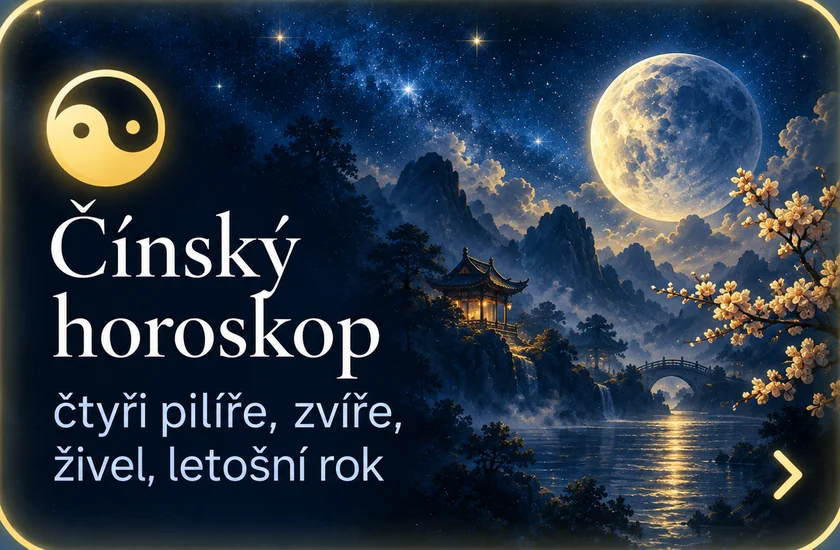
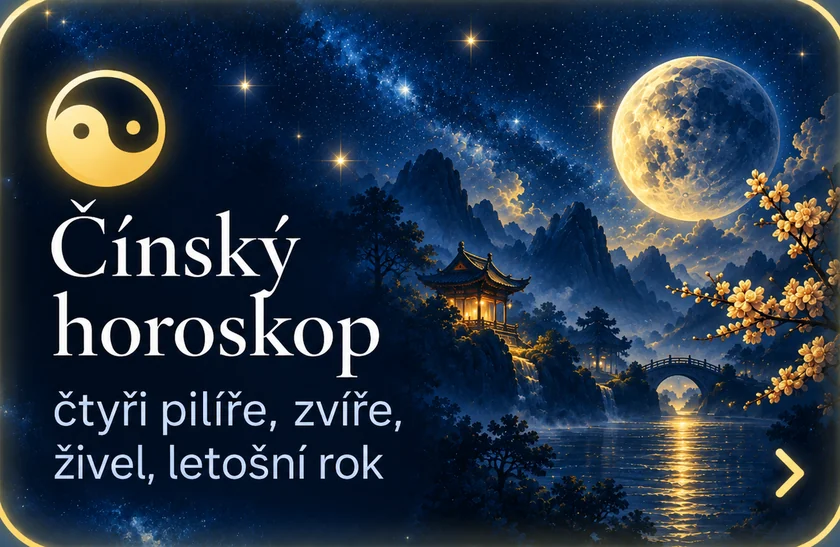
Karty Maysky a Cinsky horoskop v plnem pomeru jako ostatni + SW v368

diff --git a/sw.js b/sw.js
@@ -1,6 +1,6 @@
 /* Kairos – service worker. Při každé změně index.html zvedni číslo verze. */
-const CACHE = 'kairos-v367';
-const SHELL = ['./', './index.html', './styles.css?v=367', './kairos-core.js?v=367', './data.js?v=367', './app.js?v=367', './astronomy.browser.min.js', './manifest.webmanifest', './logo.png', './logo-emblem.webp?v=1', './cyklus-dne.webp?v=1', './cat-vse.webp?v=2', './cat-portal.webp?v=2', './cat-osobni.webp?v=2', './cat-priroda.webp?v=2', './cat-zatmeni.webp?v=2', './cat-luna.webp?v=2', './cat-planety.webp?v=2', './cat-hvezdy.webp?v=2', './cat-roje.webp?v=2', './cat-slunce.webp?v=2', './cat-komety.webp?v=2', './tile-mapa.webp?v=9', './tile-prochazis.webp?v=9', './tile-vztahy.webp?v=9', './tile-horoskop.webp?v=9', './tile-cisla.webp?v=9', './tile-cakra.webp?v=9', './tile-navraty.webp?v=9', './tile-hvezdy.webp?v=9', './tile-maya.webp?v=9', './tile-cina.webp?v=9', './logo-stars.webp?v=1', './moon-tex.png?v=1', './icon-192.png', './icon-512.png', './icon-maskable-512.png', './sky-day.webp?v=7', './sky-night.webp?v=4', './sky-night-hd2.webp?v=1', './sky-day-hd2.webp?v=1'];
+const CACHE = 'kairos-v368';
+const SHELL = ['./', './index.html', './styles.css?v=368', './kairos-core.js?v=368', './data.js?v=368', './app.js?v=368', './astronomy.browser.min.js', './manifest.webmanifest', './logo.png', './logo-emblem.webp?v=1', './cyklus-dne.webp?v=1', './cat-vse.webp?v=2', './cat-portal.webp?v=2', './cat-osobni.webp?v=2', './cat-priroda.webp?v=2', './cat-zatmeni.webp?v=2', './cat-luna.webp?v=2', './cat-planety.webp?v=2', './cat-hvezdy.webp?v=2', './cat-roje.webp?v=2', './cat-slunce.webp?v=2', './cat-komety.webp?v=2', './tile-mapa.webp?v=10', './tile-prochazis.webp?v=10', './tile-vztahy.webp?v=10', './tile-horoskop.webp?v=10', './tile-cisla.webp?v=10', './tile-cakra.webp?v=10', './tile-navraty.webp?v=10', './tile-hvezdy.webp?v=10', './tile-maya.webp?v=10', './tile-cina.webp?v=10', './logo-stars.webp?v=1', './moon-tex.png?v=1', './icon-192.png', './icon-512.png', './icon-maskable-512.png', './sky-day.webp?v=7', './sky-night.webp?v=4', './sky-night-hd2.webp?v=1', './sky-day-hd2.webp?v=1'];
 
 self.addEventListener('install', (e) => {
   e.waitUntil(caches.open(CACHE).then((c) => c.addAll(SHELL.map((u) => new Request(u, { cache: 'reload' })))).then(() => self.skipWaiting()));

diff --git a/app.js b/app.js
@@ -1,6 +1,6 @@
 (function () {
   'use strict';
-  const VERSION = 'v367';
+  const VERSION = 'v368';
   const A = Astronomy;
   const K = createKairosEngine(A);
   const TX = createKairosTexts(K);
@@ -3734,7 +3734,7 @@ ${parts}
     ].filter(t => t[0] !== 'cisla' || settings.numerology !== false);
     if (view === 'menu') {
       const arcS = arcSentence();
-      v.innerHTML = natalHead + (arcS ? `<p class="nnow"><span class="tvlab">tvůj den</span>${esc(arcS)}</p>` : '') + `<div class="ntiles">${TILES.map(([id, ic, t, sub, kind, noimg]) => noimg ? `<button type="button" class="ntile txt ${kind || ''}" data-act="natalView" data-v="${id}"><span class="ic">${ic}</span><b>${t}</b><small>${sub}</small><span class="chev">›</span></button>` : `<button type="button" class="ntile img ${kind || ''}" data-act="natalView" data-v="${id}" aria-label="${t} — ${sub}"><img src="tile-${id}.webp?v=9" alt="" width="420" height="317"></button>`).join('')}</div>`+ `<p class="note astrolink"><button type="button" class="linkbtn" data-act="natalView" data-v="efemeridy">Podrobnosti — pro astrologa: Efemeridy ›</button></p>`;
+      v.innerHTML = natalHead + (arcS ? `<p class="nnow"><span class="tvlab">tvůj den</span>${esc(arcS)}</p>` : '') + `<div class="ntiles">${TILES.map(([id, ic, t, sub, kind, noimg]) => noimg ? `<button type="button" class="ntile txt ${kind || ''}" data-act="natalView" data-v="${id}"><span class="ic">${ic}</span><b>${t}</b><small>${sub}</small><span class="chev">›</span></button>` : `<button type="button" class="ntile img ${kind || ''}" data-act="natalView" data-v="${id}" aria-label="${t} — ${sub}"><img src="tile-${id}.webp?v=10" alt="" width="420" height="317"></button>`).join('')}</div>`+ `<p class="note astrolink"><button type="button" class="linkbtn" data-act="natalView" data-v="efemeridy">Podrobnosti — pro astrologa: Efemeridy ›</button></p>`;
       return;
     }
     const tile = TILES.find(t => t[0] === view) || (view === 'efemeridy' ? ['efemeridy', '≡', 'Efemeridy', ''] : view === 'smerClose' ? ['smer', '➶', 'Sklizeň', ''] : TILES[0]);

diff --git a/index.html b/index.html
@@ -25,7 +25,7 @@ var mt=document.querySelector('meta[name=theme-color]');if(mt)mt.setAttribute('c
 <link rel="preconnect" href="https://fonts.googleapis.com">
 <link rel="preconnect" href="https://fonts.gstatic.com" crossorigin>
 <link rel="stylesheet" href="https://fonts.googleapis.com/css2?family=Cormorant+Garamond:ital,wght@0,500;0,600;1,500&family=IBM+Plex+Sans:wght@400;500;600&family=IBM+Plex+Mono:wght@400;500&display=swap">
-<link rel="stylesheet" href="styles.css?v=367">
+<link rel="stylesheet" href="styles.css?v=368">
 </head>
 <body>
 <div id="splash" aria-hidden="true"><img class="sp-em" src="logo-emblem.webp?v=1" alt=""><span class="bname"><i class="l1"><b>NEBESKÝ</b></i><i class="l2"><b>KOMPAS</b></i></span><img class="sp-st" src="logo-stars.webp?v=1" alt=""><span class="claim sp-cl"><i>tvůj</i><i class="mid">hvězdný</i><i class="big">kalendář</i></span></div>
@@ -55,8 +55,8 @@ var mt=document.querySelector('meta[name=theme-color]');if(mt)mt.setAttribute('c
 <button type="button" class="backbtn" id="backBtn" aria-label="Zpět, odkud jsi přišel">‹ Zpět</button>
 <div class="upbar" id="upbar" role="status"><span><b>Nová verze je připravená</b>Obnov a máš ji hned.</span><button type="button" id="upGo">Obnovit</button><button type="button" class="upx" id="upX" aria-label="Zavřít">×</button></div>
 <script src="astronomy.browser.min.js"></script>
-<script src="kairos-core.js?v=367"></script>
-<script src="data.js?v=367"></script>
-<script src="app.js?v=367"></script>
+<script src="kairos-core.js?v=368"></script>
+<script src="data.js?v=368"></script>
+<script src="app.js?v=368"></script>
 </body>
 </html>
